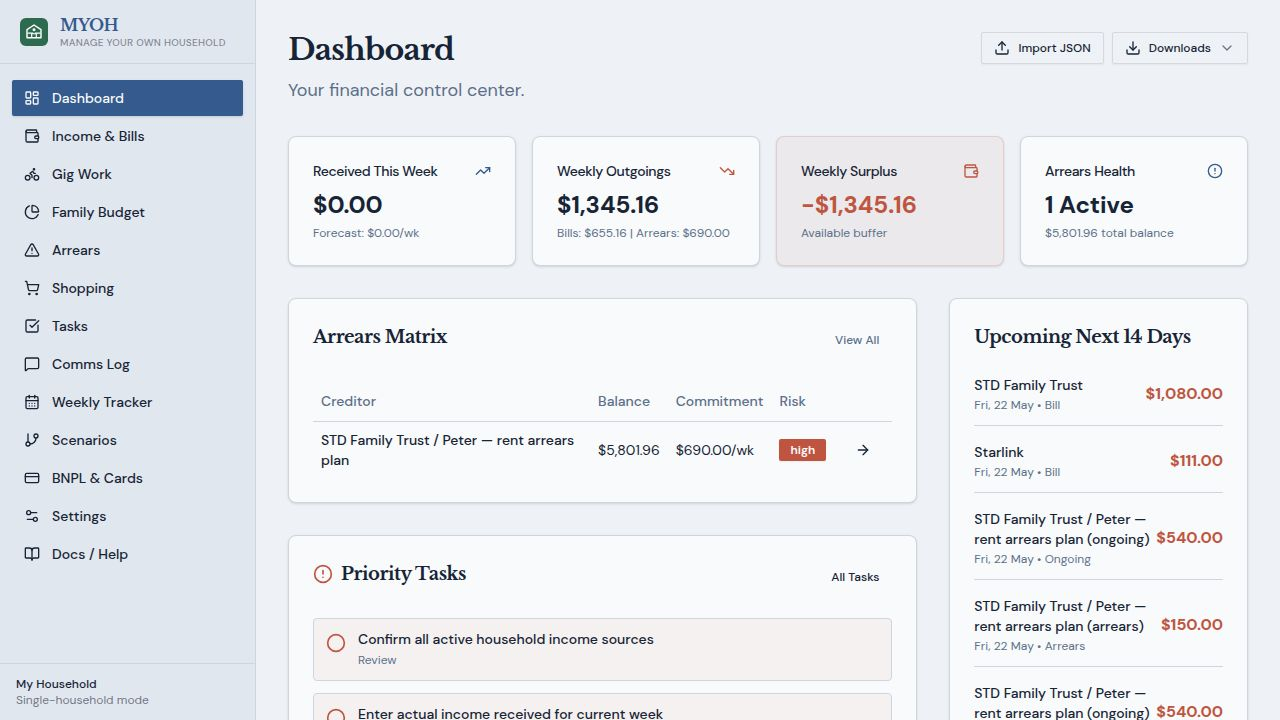
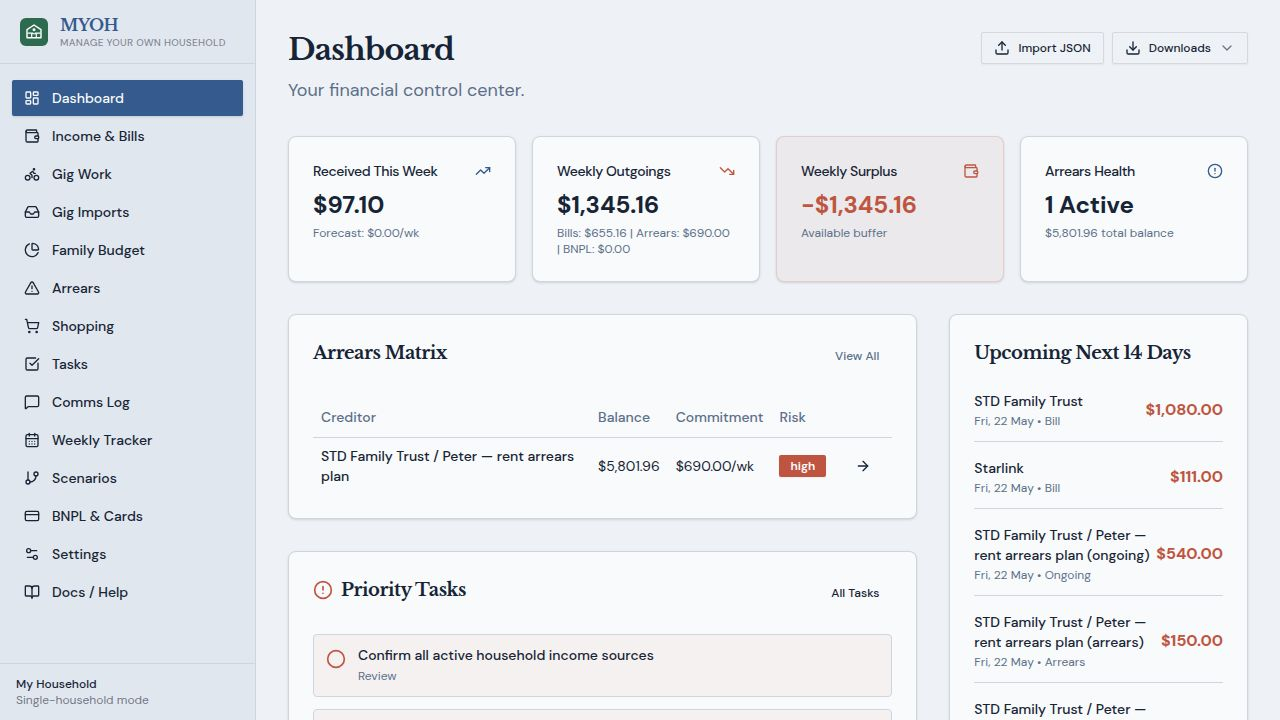
Add BNPL & stored value totals to the weekly dashboard summary
Task: Task #4 — Add BNPL & stored value totals to the weekly dashboard summary

## Changes

### API Server (artifacts/api-server/src/routes/dashboard.ts)
- Imported bnplItemsTable and storedValueItemsTable from @user/db
- Added both tables to the Promise.all fetch in /api/dashboard/summary
- Computed bnplWeeklyCommitment: sum of toWeekly(instalmentAmount, instalmentFrequency)
  for all active BNPL items (status === "active")
- Computed storedValueAvailable: sum of remainingBalance across all stored value items
- Computed adjustedWeeklySurplus = weeklySurplus - bnplWeeklyCommitment + storedValueAvailable
  so the surplus card reflects the full cash picture including BNPL obligations and stored value offset
- All three new fields returned in the JSON response

### Type Schemas
- lib/api-client-react/src/generated/api.schemas.ts: added bnplWeeklyCommitment,
  storedValueAvailable, and adjustedWeeklySurplus to DashboardSummary interface
- lib/api-zod/src/generated/types/dashboardSummary.ts: same additions to keep
  both generated contract consumers in sync

### Dashboard UI — MYOH Blueprint (artifacts/arrears-blueprint/src/pages/Home.tsx)
- Weekly Outgoings card headline now adds bnplWeeklyCommitment to the total
- Breakdown subtext shows Bills | Arrears | BNPL
- Weekly Surplus card now renders adjustedWeeklySurplus (not bare weeklySurplus)
- Subtext shows stored value offset amount when > 0, otherwise "After BNPL commitments"
[…]

diff --git a/artifacts/api-server/src/routes/dashboard.ts b/artifacts/api-server/src/routes/dashboard.ts
@@ -8,6 +8,8 @@ import {
   incomeEntriesTable,
   tasksTable,
   gigEntriesTable,
+  bnplItemsTable,
+  storedValueItemsTable,
 } from "@workspace/db";
 import { n, toWeekly } from "../lib/calc";
 
@@ -26,7 +28,7 @@ router.get("/dashboard/summary", async (_req, res): Promise<void> => {
   const weekStart = monday.toISOString().slice(0, 10);
   const weekEnd = sunday.toISOString().slice(0, 10);
 
-  const [income, bills, arrears, tasks, gigEntries, weekIncomeEntries] = await Promise.all([
+  const [income, bills, arrears, tasks, gigEntries, weekIncomeEntries, bnplItems, storedValueItems] = await Promise.all([
     db.select().from(incomeSourcesTable),
     db.select().from(billsTable),
     db.select().from(arrearsItemsTable),
@@ -34,6 +36,8 @@ router.get("/dashboard/summary", async (_req, res): Promise<void> => {
     db.select().from(gigEntriesTable),
     db.select().from(incomeEntriesTable)
       .where(and(gte(incomeEntriesTable.dateReceived, weekStart), lte(incomeEntriesTable.dateReceived, weekEnd))),
+    db.select().from(bnplItemsTable),
+    db.select().from(storedValueItemsTable),
   ]);
 
   const weeklyIncome =
@@ -73,6 +77,19 @@ router.get("/dashboard/summary", async (_req, res): Promise<void> => {
     (a) => a.riskLevel === "high" && a.status !== "completed",
   ).length;
 
+  const bnplWeeklyCommitment =
+    Math.round(
+      bnplItems
+        .filter((b) => b.status === "active")
+        .reduce((s, b) => s + toWeekly(n(b.instalmentAmount), b.instalmentFrequency), 0) * 100,
+    ) / 100;
+  const storedValueAvailable =
+    Math.round(
+      storedValueItems.reduce((s, v) => s + n(v.remainingBalance), 0) * 100,
+    ) / 100;
+  const adjustedWeeklySurplus =
+    Math.round((weeklySurplus - bnplWeeklyCommitment + storedValueAvailable) * 100) / 100;
+
   // Calculate gig income from last 7 days — exclude entries already linked to an income record
   // (those are counted via income_entries to avoid double-counting)
   const sevenDaysAgo = new Date(Date.now() - 7 * 86400000).toISOString().slice(0, 10);
@@ -108,6 +125,9 @@ router.get("/dashboard/summary", async (_req, res): Promise<void> => {
     highRiskCount,
     weeklyGigIncome,
     pendingGigPayout,
+    bnplWeeklyCommitment,
+    storedValueAvailable,
+    adjustedWeeklySurplus,
   });
 });
 

diff --git a/artifacts/arrears-blueprint/src/pages/Home.tsx b/artifacts/arrears-blueprint/src/pages/Home.tsx
@@ -130,24 +130,26 @@ function SummaryCards() {
           <TrendingDown className="h-4 w-4 text-destructive" />
         </CardHeader>
         <CardContent>
-          <div className="text-2xl font-bold">{formatCurrency(summary.weeklyOut)}</div>
+          <div className="text-2xl font-bold">{formatCurrency(summary.weeklyOut + summary.bnplWeeklyCommitment)}</div>
           <p className="text-xs text-muted-foreground mt-1">
-            Bills: {formatCurrency(summary.weeklyBills)} | Arrears: {formatCurrency(summary.weeklyArrears)}
+            Bills: {formatCurrency(summary.weeklyBills)} | Arrears: {formatCurrency(summary.weeklyArrears)} | BNPL: {formatCurrency(summary.bnplWeeklyCommitment)}
           </p>
         </CardContent>
       </Card>
 
-      <Card className={summary.weeklySurplus >= 0 ? "bg-primary/5 border-primary/20" : "bg-destructive/5 border-destructive/20"}>
+      <Card className={summary.adjustedWeeklySurplus >= 0 ? "bg-primary/5 border-primary/20" : "bg-destructive/5 border-destructive/20"}>
         <CardHeader className="flex flex-row items-center justify-between space-y-0 pb-2">
           <CardTitle className="text-sm font-medium">Weekly Surplus</CardTitle>
-          <Wallet className={summary.weeklySurplus >= 0 ? "h-4 w-4 text-primary" : "h-4 w-4 text-destructive"} />
+          <Wallet className={summary.adjustedWeeklySurplus >= 0 ? "h-4 w-4 text-primary" : "h-4 w-4 text-destructive"} />
         </CardHeader>
         <CardContent>
-          <div className={`text-2xl font-bold ${summary.weeklySurplus >= 0 ? "text-primary" : "text-destructive"}`}>
-            {formatCurrency(summary.weeklySurplus)}
+          <div className={`text-2xl font-bold ${summary.adjustedWeeklySurplus >= 0 ? "text-primary" : "text-destructive"}`}>
+            {formatCurrency(summary.adjustedWeeklySurplus)}
           </div>
           <p className="text-xs text-muted-foreground mt-1">
-            Available buffer
+            {summary.storedValueAvailable > 0
+              ? `After BNPL & ${formatCurrency(summary.storedValueAvailable)} stored value`
+              : "After BNPL commitments"}
           </p>
         </CardContent>
       </Card>

diff --git a/artifacts/life-pilot/src/pages/Home.tsx b/artifacts/life-pilot/src/pages/Home.tsx
@@ -191,24 +191,26 @@ function SummaryCards() {
           <TrendingDown className="h-4 w-4 text-destructive" />
         </CardHeader>
         <CardContent>
-          <div className="text-2xl font-bold">{formatCurrency(summary.weeklyOut)}</div>
+          <div className="text-2xl font-bold">{formatCurrency(summary.weeklyOut + summary.bnplWeeklyCommitment)}</div>
           <p className="text-xs text-muted-foreground mt-1">
-            Bills: {formatCurrency(summary.weeklyBills)} | Arrears: {formatCurrency(summary.weeklyArrears)}
+            Bills: {formatCurrency(summary.weeklyBills)} | Arrears: {formatCurrency(summary.weeklyArrears)} | BNPL: {formatCurrency(summary.bnplWeeklyCommitment)}
           </p>
         </CardContent>
       </Card>
 
-      <Card className={summary.weeklySurplus >= 0 ? "bg-primary/5 border-primary/20" : "bg-destructive/5 border-destructive/20"}>
+      <Card className={summary.adjustedWeeklySurplus >= 0 ? "bg-primary/5 border-primary/20" : "bg-destructive/5 border-destructive/20"}>
         <CardHeader className="flex flex-row items-center justify-between space-y-0 pb-2">
           <CardTitle className="text-sm font-medium">Weekly Surplus</CardTitle>
-          <Wallet className={summary.weeklySurplus >= 0 ? "h-4 w-4 text-primary" : "h-4 w-4 text-destructive"} />
+          <Wallet className={summary.adjustedWeeklySurplus >= 0 ? "h-4 w-4 text-primary" : "h-4 w-4 text-destructive"} />
         </CardHeader>
         <CardContent>
-          <div className={`text-2xl font-bold ${summary.weeklySurplus >= 0 ? "text-primary" : "text-destructive"}`}>
-            {formatCurrency(summary.weeklySurplus)}
+          <div className={`text-2xl font-bold ${summary.adjustedWeeklySurplus >= 0 ? "text-primary" : "text-destructive"}`}>
+            {formatCurrency(summary.adjustedWeeklySurplus)}
           </div>
           <p className="text-xs text-muted-foreground mt-1">
-            Available buffer
+            {summary.storedValueAvailable > 0
+              ? `After BNPL & ${formatCurrency(summary.storedValueAvailable)} stored value`
+              : "After BNPL commitments"}
           </p>
         </CardContent>
       </Card>